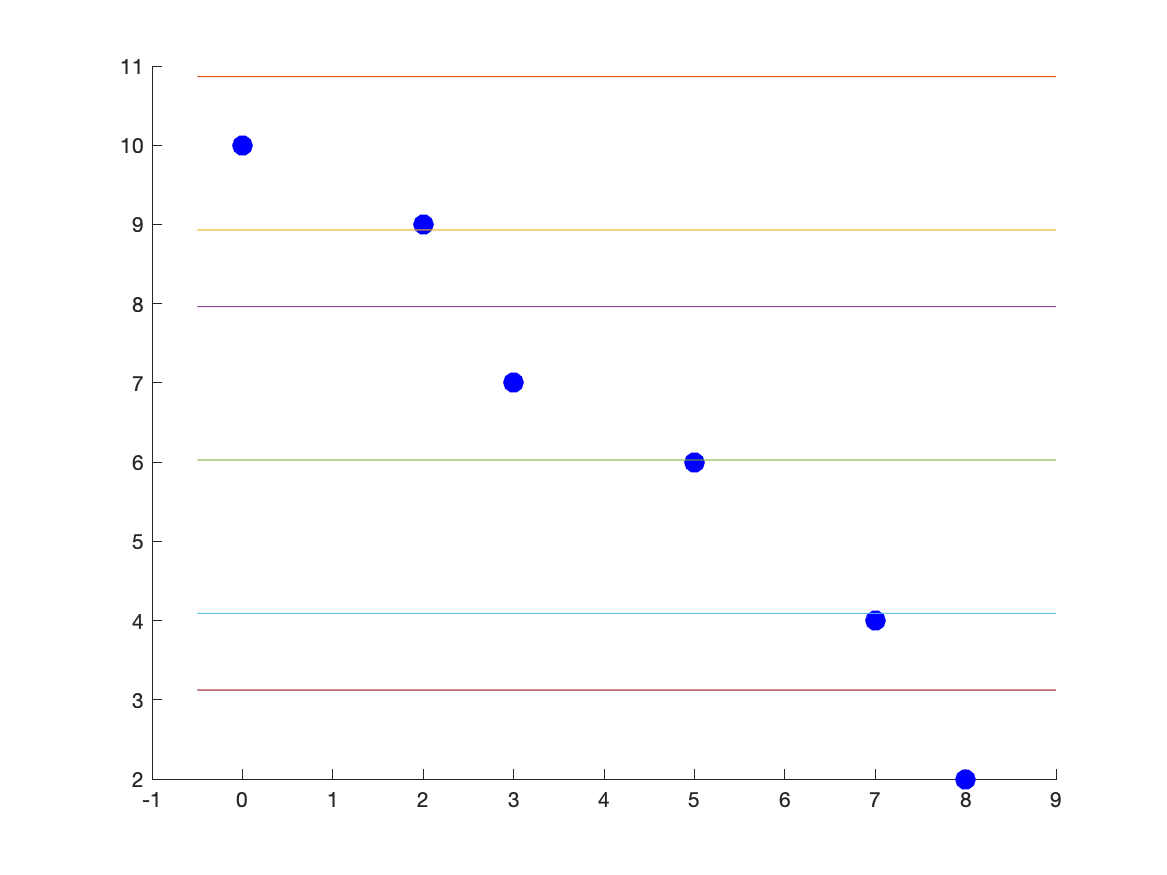
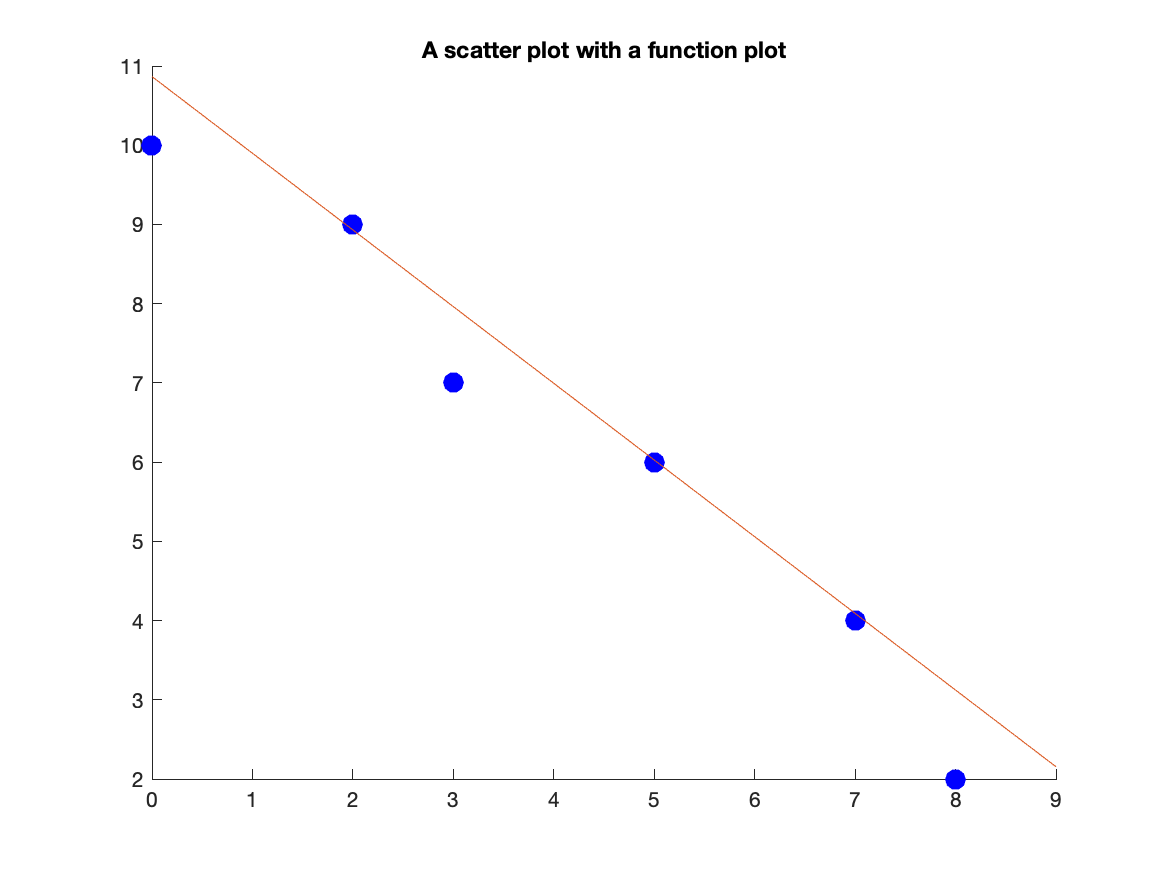
added a plot

diff --git a/sym-comp-notes/ch-02.md b/sym-comp-notes/ch-02.md
@@ -333,10 +333,20 @@ fplot(@(x) 10.8665-0.9680*x,[-0.5,9])
 hold off
 ```
 
+This results in the plot:
+
+![Scatter plot and a function plot](images/ch02/plot17.png)
+
 Note: above, we have generally done `fplot(10.8665-0.9680*x,[0.5,9])` to plot the line.  However, becase we defined `x` to be an array of points, this won't work.  Try it!! The `@(x)` is way to redeclare `x` as a different variable.  We'll see this more later.
 
-This will produce a plot that looks like:
+If instead you do
 
-![Plot with functions and dots](images/ch02/plot17.png)
+```matlab
+fplot(10.8665-0.9680*x,[-0.5,9]))
+```
+
+this will produce a plot that looks like:
+
+![Plot with functions and dots](images/ch02/plot18.png)
 
 [Previous Chapter](ch-01.html) | [Return to all notes](index.html) | [Next chapter](ch-03.html)
